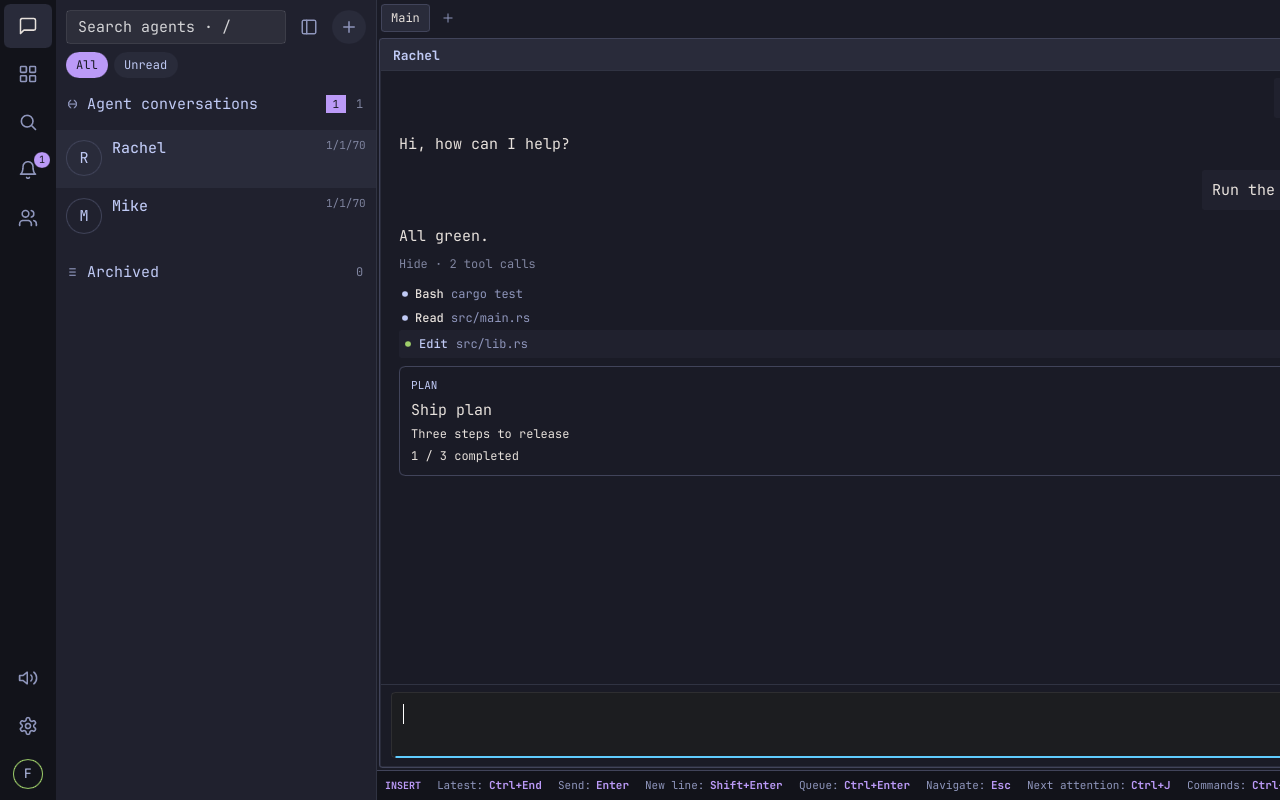
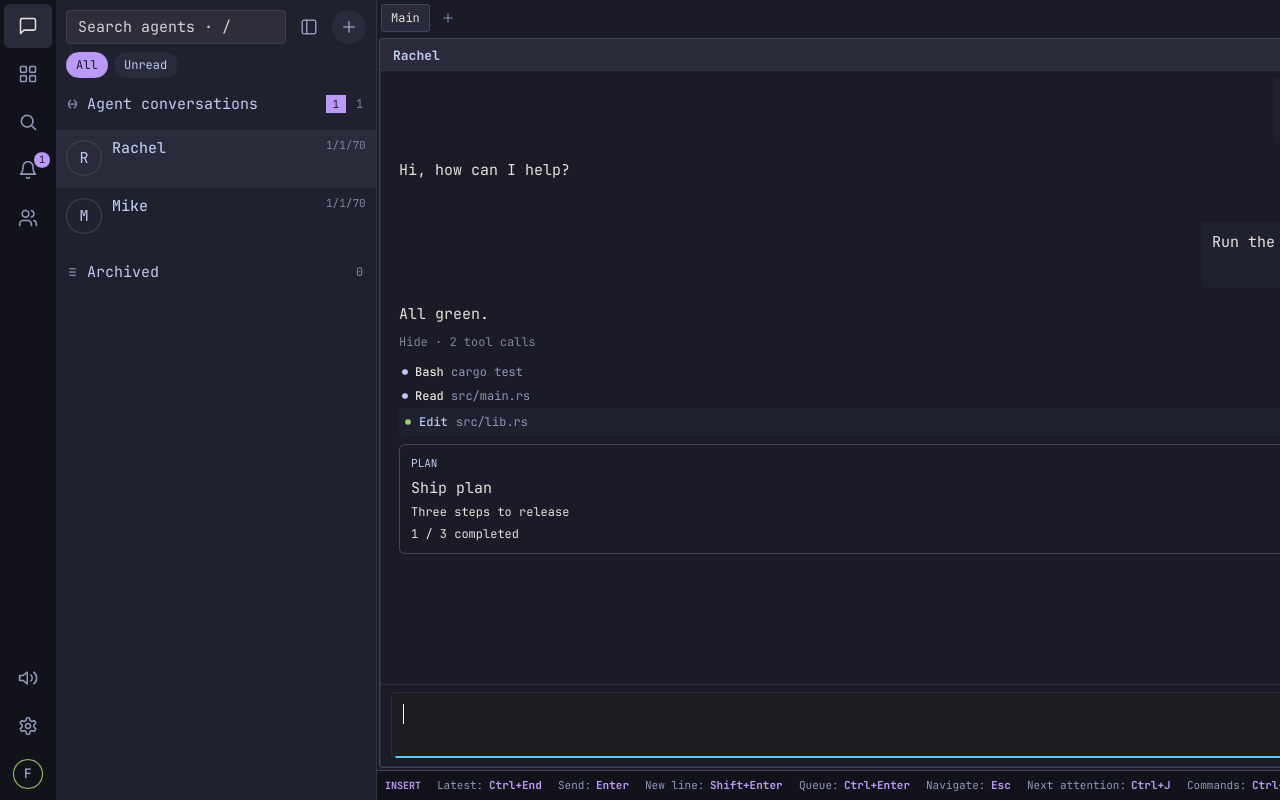
feat(slint): plain-English tool explanations in the transcript and a copy button per message

diff --git a/desktop-rs/slint-app/src/driver.rs b/desktop-rs/slint-app/src/driver.rs
@@ -317,6 +317,7 @@ pub fn start_check(name: &str, out: String) {
         "preview" => preview_check(out),
         "connection" => connection_check(out),
         "lifecycle" => lifecycle_check(out),
+        "narration" => narration_check(out),
         // ---- updates and teams
         "updates" => updates_check(out),
         "teams" => teams_check(out),
@@ -1331,6 +1332,49 @@ fn lifecycle_check(out: String) {
             let bodies = created();
             let Some(body) = bodies.iter().find(|b| b.get("fork_session_id").is_some()) else { return false };
             check(body["fork_session_id"] == "old-1" && body["replace_sid"].as_str().is_some_and(|s| s.starts_with("mike")), &format!("fork starts from the chosen past conversation: {body}"));
+            true
+        })),
+    ];
+    run_stages(stages);
+}
+
+/// `--check narration --out DIR`: with plain-English tools on, an open tool
+/// call shows the Host's explanation in place of the raw call.
+fn narration_check(out: String) {
+    let out2 = out.clone();
+    let turns = serde_json::json!({"session": "rachel", "turns": [
+        {"id": "n1", "role": "user", "text": "List the files"},
+        {"id": "n2", "role": "assistant", "text": "Here they are.",
+         "tools": [{"id": "call-1", "name": "Bash", "summary": "ls the project", "command": "ls", "status": "completed"}]},
+    ]});
+    let stages: Vec<Stage> = vec![
+        ("live", Box::new(move |app, window, _| {
+            if app.engine.borrow().connection_state() != "live" {
+                return false;
+            }
+            check(control("/__control/turns", &turns).is_ok(), "the Host has a reply with a tool call");
+            check(crate::commands::run(&app_now(), window, "tool-narration"), "plain-English tools switch on");
+            check(crate::commands::run(&app_now(), window, "setting:detail:3"), "at Plain English");
+            true
+        })),
+        ("folded", Box::new(|_, window, _| {
+            let Some(row) = rows(window).into_iter().find(|r| r.id == "n2") else { return false };
+            window.invoke_toggle_activity(app_now().active_id(), row.id, row.group_id);
+            true
+        })),
+        ("explained", Box::new(move |app, window, _| {
+            let Some(row) = rows(window).into_iter().find(|r| r.id == "n2" && r.expanded) else { return false };
+            let Some(tool) = row.tools.row_data(0) else { return false };
+            if tool.explanation.is_empty() {
+                return false;
+            }
+            check(tool.narrated && tool.explanation == "Explained: ls the project", &format!("the call is explained in plain English: {:?}", tool.explanation));
+            check(app.engine.borrow().settings().integer("experiments/toolDetailLevel", 0) == 3, "the level is kept");
+            shot(&out2, "narration-01");
+            // A message's copy button puts its text on the clipboard.
+            window.invoke_copy_message(app_now().active_id(), "n2".into());
+            let copied = std::env::var_os("CLARP_TEST_CLIPBOARD").and_then(|p| std::fs::read_to_string(p).ok()).unwrap_or_default();
+            check(copied == "Here they are.", &format!("the copy button copies the message: {copied:?}"));
             true
         })),
     ];

diff --git a/desktop-rs/slint-app/src/panes.rs b/desktop-rs/slint-app/src/panes.rs
@@ -20,6 +20,9 @@ pub struct Report {
     pub composer_focused: bool,
 }
 
+/// How many of a chat's latest rows get their tool calls explained.
+const NARRATED_ROWS: usize = 40;
+
 pub struct PaneState {
     pub id: String,
     pub session: String,
@@ -271,12 +274,40 @@ impl App {
                 }
             }
         }
+        // Plain-English tools: the latest open rows' calls, explained.
+        let narrating = engine.narrator_enabled() && !engine.narrator_unavailable();
+        let mut rows = rows;
+        let recent = rows.len().saturating_sub(NARRATED_ROWS);
+        for (index, (row, shown)) in presented.iter().zip(rows.iter_mut()).enumerate() {
+            if !narrating || index < recent || !shown.expanded {
+                continue;
+            }
+            let calls: Vec<crate::ToolRow> = row
+                .tools
+                .iter()
+                .zip(shown.tools.iter())
+                .map(|(tool, mut card)| {
+                    let Some(activity) = tool.as_object() else { return card };
+                    let failed = engine.explanation_failed(&pane.session, activity);
+                    card.narrated = !failed;
+                    card.explanation = engine.explanation_for(&pane.session, activity).into();
+                    if !failed && card.explanation.is_empty() {
+                        engine.request_explanation(&pane.session, activity);
+                    }
+                    card
+                })
+                .collect();
+            shown.tools = ModelRc::new(VecModel::from(calls));
+        }
         drop(engine);
-        let signature = |artifacts: &Vec<serde_json::Value>| {
-            artifacts.iter().map(|a| format!("{}@{}", text_of(a, "artifact_id"), a.get("updated_at").cloned().unwrap_or_default())).collect::<Vec<_>>().join(",")
+        let signature = |artifacts: &Vec<serde_json::Value>, row: &MessageRow| {
+            let explained: Vec<String> = row.tools.iter().map(|t| format!("{}:{}", t.narrated, t.explanation)).collect();
+            let cards = artifacts.iter().map(|a| format!("{}@{}", text_of(a, "artifact_id"), a.get("updated_at").cloned().unwrap_or_default())).collect::<Vec<_>>().join(",");
+            format!("{cards}|{}", explained.join(","))
         };
+        let signatures: Vec<String> = artifacts.iter().zip(&rows).map(|(a, row)| signature(a, row)).collect();
         let fresh: Vec<Shown> =
-            presented.into_iter().zip(rows.iter().map(|r| r.expanded)).zip(&artifacts).map(|((row, open), a)| (row, open, signature(a))).collect();
+            presented.into_iter().zip(rows.iter().map(|r| r.expanded)).zip(signatures).map(|((row, open), s)| (row, open, s)).collect();
         sync_rows(&pane.messages, &mut pane.shown, fresh, rows);
     }
 

diff --git a/desktop-rs/slint-app/src/main.rs b/desktop-rs/slint-app/src/main.rs
@@ -436,6 +436,17 @@ fn main() {
             }
         }
     });
+    window.on_copy_message(|pane, id| with_window(|app, _| {
+        let session = app.session_of(&pane);
+        let text = app.engine.borrow().conversation(&session).and_then(|c| {
+            c.rows().iter().find(|m| m.id == id.as_str()).map(|m| if m.display_text.is_empty() { m.text.clone() } else { m.display_text.clone() })
+        });
+        match text.map(|text| platform::clipboard::copy(&text)) {
+            Some(Ok(())) => {}
+            Some(Err(error)) => app.engine.borrow_mut().report_error(&format!("Could not copy: {error}")),
+            None => eprintln!("clarp-slint: no message {id} to copy"),
+        }
+    }));
     window.on_paste_image(|pane| {
         let Some(app) = app() else { return false };
         let session = app.session_of(&pane);

diff --git a/desktop-rs/slint-app/src/platform/clipboard.rs b/desktop-rs/slint-app/src/platform/clipboard.rs
@@ -21,7 +21,6 @@ fn clipboard() -> &'static Mutex<Option<arboard::Clipboard>> {
 }
 
 #[allow(dead_code)] // for the transcript's copy action
-#[allow(dead_code)] // for the transcript's copy action
 pub fn copy(text: &str) -> Result<(), String> {
     if let Some(path) = std::env::var_os("CLARP_TEST_CLIPBOARD") {
         return std::fs::write(&path, text).map_err(|e| format!("{}: {e}", std::path::Path::new(&path).display()));

diff --git a/desktop-rs/slint-app/src/view.rs b/desktop-rs/slint-app/src/view.rs
@@ -310,6 +310,7 @@ pub(crate) fn tool_row(tool: &serde_json::Value) -> ToolRow {
         summary: first(&["summary", "description", "file_path"], "").into(),
         status: first(&["status"], "recorded").into(),
         detail: detail.join("\n\n").into(),
+        ..ToolRow::default()
     }
 }
 

diff --git a/desktop-rs/SLINT_PARITY.md b/desktop-rs/SLINT_PARITY.md
@@ -20,7 +20,7 @@ over `engine/`, so its behaviour tests run against the engine without a UI.
 |---|---|---|---|
 | `qml/Main.qml` | 874 | `slint-app/ui/app.slint` + `slint-app/src/main.rs` | wip: window, header with connection state, error banner, sidebar/transcript/composer layout on `clarp-engine`; e2e `slint-app/tests/run-e2e.sh` (roster, send, streaming, second chat) passes |
 | `qml/PreviewVersionWindow.qml` | 42 | `slint-app/ui/preview.slint` `PreviewWindow` (`clarp-slint --preview-versions`) | wip: builds and shares the panel; the manager mode is not driven by a check (it needs the preview helper) |
-| `qml/components/ActivityExplanation.qml` | 134 | `slint-app/src/cells_view.rs` (`_explanationRepeat: 0` repeats are left out of cells and tool cards) | wip: the narrator (explanation text, dots while pending, `(xN)`) is not in the engine yet, so cells and tool cards show the tool call itself, as QML does when narration is off |
+| `qml/components/ActivityExplanation.qml` | 134 | `engine/src/narrator.rs` over `clarp_core::narrator` (cached explanations in the presentation pass, batched `/tool-explanations` requests, detail level kept) + `slint-app/src/panes.rs` (the latest 40 rows' open tool calls are asked for, instead of tracking the viewport) + `ToolCard` (explanation in place of the call, "…" while pending, the call again when it failed) + `cells_view.rs` (repeats left out) | verified: `check.sh narration` (`docs/checks/narration-01.png`), `engine/tests/host_flow.rs::tool_activity_is_explained_in_plain_english_once_asked`; dots do not animate |
 | `qml/components/ActivitySweep.qml` | 15 | `slint-app/ui/avatar.slint` `ActivitySweep` (band driven by the avatar's phase; none with `appearance/reducedMotion`) | verified: `check.sh overview` (Mike's working card, `docs/checks/overview-01.png`); not yet in the sidebar rows or the pane header |
 | `qml/components/AgentAvatar.qml` | 81 | `slint-app/ui/avatar.slint` `AgentAvatar` + `engine/src/avatars.rs` (agent's own or bundled portrait, fetched once, rounded to 192 px, cached on disk) + `profile_view::portrait` (decoded once per file) | verified: `engine/tests/panels.rs::portraits_are_fetched_once_rounded_and_cached`, `check.sh profile` and `check.sh overview` (Rachel's portrait, Mike's initial); contact portraits (`contactAvatarSource`) and the sidebar rows' portraits pending; rounding runs on the UI thread (the Qt app uses a worker) |
 | `qml/components/AgentOverview.qml` | 499 | `slint-app/ui/overview.slint` + `slint-app/src/overview_view.rs` (cards with portrait, activity ring and sweep, state, backend/model/folder, queue, context bar, schedules On/Off; Open; the "···" menu in place: Relaunch, Voice, heartbeat, dreaming, push alerts, Archive, Release… then Confirm release; archived row with Restore; ready contacts with Start) | verified: `check.sh overview` (Ctrl+Shift+O outside the composer, the rail's button, heartbeat, schedule, two-step release, orchestrator over it and back, Escape, click outside; `docs/checks/overview-01.png`, `overview-02-orchestrator.png`). Changes: the "···" menu opens inside the card (no popup menu); an Orchestrator button in the header emits QML's otherwise unused `orchestratorRequested`; + New / close are icons; in the composer Ctrl+Shift+O stays the attach shortcut. Pending: + New and Relaunch run the `new` and `relaunch-agent` actions, which the start-agent dialog provides |
@@ -42,7 +42,7 @@ over `engine/`, so its behaviour tests run against the engine without a UI.
 | `qml/components/KeymapEditor.qml` | 32 | `slint-app/ui/dialogs.slint` `KeymapEditor` on the shared `Modal` (Escape / click outside close) + `commands.rs` (bindings in settings `keymap/bindings`, validated by `keymap::import`) | verified: `slint-app/tests/check.sh keymap` (`docs/checks/keymap-01.png`) |
 | `qml/components/LaunchDirectoryPicker.qml` | 113 | `slint-app/ui/launch.slint` (`DirectoryPicker`, inside the hub) + `slint-app/src/launch_view.rs` | verified: `slint-app/tests/check.sh launch` (Ctrl+Alt+D, typed query against the Host's launch directories, Enter chooses; `docs/checks/launch-03-directory.png`). Same rules as QML: "~" for an empty query, 80 ms query delay, Enter while loading chooses once the Host answers, Tab completes |
 | `qml/components/MediaGallery.qml` | 163 | `slint-app/ui/media.slint` `MediaGallery` (compact/expanded, horizontal strip, captions, loading dots) and `MediaViewer` (full size, Escape / click outside) + `profile_view` (`load_media`, `media_for_session`, `media_source`) | verified: `check.sh profile` (8×8 image fetched and shown, viewer `docs/checks/profile-03-media.png`) |
-| `qml/components/MessageDelegate.qml` | 538 | `slint-app/ui/transcript.slint` `Block`/message rows + `engine/src/blocks.rs` (headings, prose/lists via StyledText, code, quotes, tables, rules; `blocks::tests`), timestamps, agent sender labels, pending/not-delivered, activity toggle | wip: rendered in both themes (`slint-app/docs/screens/`) and checked by `slint-app/tests/check.sh transcript`; text selection (Slint's StyledText has none) and media pending |
+| `qml/components/MessageDelegate.qml` | 538 | `slint-app/ui/transcript.slint` `Block`/message rows + `engine/src/blocks.rs` (headings, prose/lists via StyledText, code, quotes, tables, rules; `blocks::tests`), timestamps, agent sender labels, pending/not-delivered, activity toggle, display cells and artifact cards (`cells.slint`), a copy button on hover | verified: `check.sh transcript`, `extras`, `narration` (copy), renders in both themes (`slint-app/docs/screens/`). Needs your call: text inside a message cannot be selected (Slint's StyledText has no selection); the copy button copies the whole message instead |
 | `qml/components/NavRail.qml` | 145 | `slint-app/ui/navrail.slint` (same SVG icons, attention badge from `engine.attention_count()`, mute, settings, Host initial); chats/updates/teams/settings switch through `commands::run` | wip: `check.sh updates` (badge counts 2 then 1, rail opens the Updates), `check.sh settings`; overview pending |
 | `qml/components/NewSessionHub.qml` | 458 | `slint-app/ui/launch.slint` (`NewSessionHub`, `LaunchHub` global) + `slint-app/src/launch_view.rs` | verified: `launch_view::tests` (2), `slint-app/tests/check.sh launch` (Ctrl+N and the sidebar's +, the "launch" keyboard state, Ctrl+Right provider, model/effort editor, contact search, Enter quick-start, Ctrl+Alt+D folder, New contact creation, the empty-pool fallback to New contact, Escape stepping back, click outside, "Connect to a server first" offline; `docs/checks/launch-01-hub.png` … `launch-06-offline.png`). Changes: cards show the initial, not the persona portrait (no AgentAvatar yet); the model menus list "Server default" once (QML also showed the catalog's "Provider default"); `quick-new-agent` opens the hub as in QML. Left: the command-line launch (`--backend …`) is not parsed by `main.rs` yet; `launch_view::open_launch` implements it (the check drives it) |
 | `qml/components/OrchestratorDialog.qml` | 193 | `slint-app/ui/orchestrator.slint` + `slint-app/src/orchestrator_view.rs` (fields refilled whenever the settings finish loading, Save disabled until then, last decision) from the `orchestrator` action, the settings row and the overview | verified: `check.sh overview` (load, edit, save body, return to the overview, open alone and close by click outside; `docs/checks/overview-02-orchestrator.png`). Changes: Cancel/Save are icons; the empty effort entry reads "default" |
